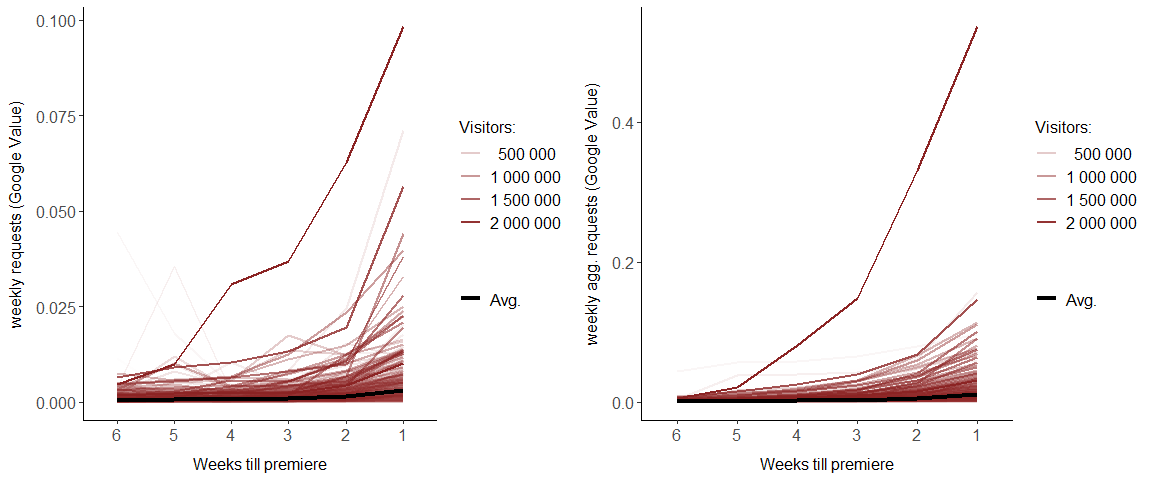
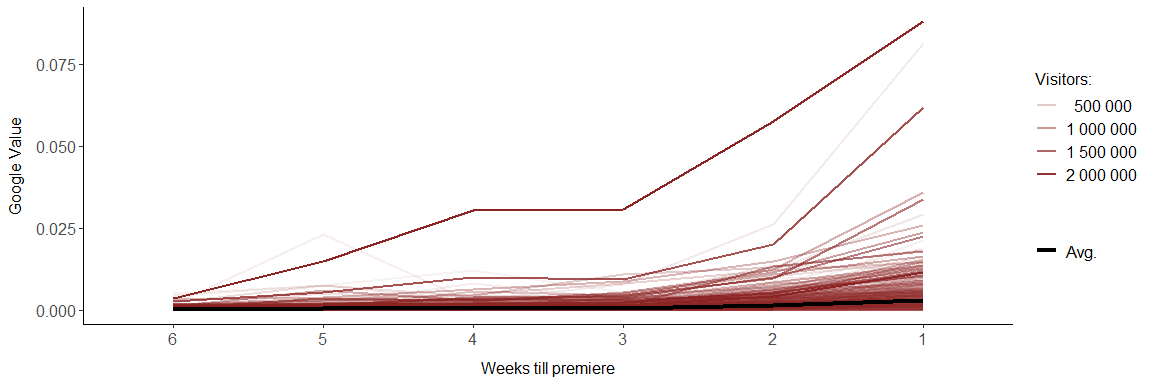
refactored request analysis

diff --git a/data_analysis/requests_analysis.md b/data_analysis/requests_analysis.md
@@ -5,8 +5,7 @@ Requests Analyis
 Google requests of the movie title***
 
 ``` r
-load("../data/data_final/data_final.RData")
-
+load("../data/data_final.RData")
 source("../utils/preprocessing_utils.R")
 source("../utils/plotting_utils.R")
 ```
@@ -14,18 +13,18 @@ source("../utils/plotting_utils.R")
 Data extraction:
 
 ``` r
-target = data_final$Besucher_wochenende1
-target_log = data_final$Besucher_wochenende1_log
-google_value = data_final[, paste0("Woche", 6:1)]
-aggregation_google_value = data_final[, paste0("Aggregation", 6:1)]
-google_value_transformed = data_final[, paste0("Woche", 6:1, "_transformiert")]
-aggregation_google_value_transformed = data_final[, paste0("Aggregation", 6:1, "_transformiert")]
-main_title = data_final[, paste0("Woche", 6:1, "_haupttitel")]
-main_title_film = data_final[, paste0("Woche", 6:1, "_haupttitel_film")]
-aggregation_main_title_film = data_final[, paste0("Aggregation", 6:1, "_haupttitel_film")]
-aggregation_main_title = data_final[, paste0("Aggregation", 6:1, "_haupttitel")]
-complete_title = data_final[paste0("Woche", 6:1, "_gesamttitel")]
-aggregation_complete_title = data_final[, paste0("Aggregation", 6:1, "_gesamttitel")]
+target = data_final$visitors_premiere_weekend
+target_log = data_final$visitors_premiere_weekend_log
+google_value = data_final[, paste0("week", 6:1)]
+aggregation_google_value = data_final[, paste0("aggregation", 6:1)]
+google_value_transformed = data_final[, paste0("week", 6:1, "_transformiert")]
+aggregation_google_value_transformed = data_final[, paste0("aggregation", 6:1, "_transformiert")]
+main_title = data_final[, paste0("week", 6:1, "_main_title")]
+main_title_film = data_final[, paste0("week", 6:1, "_main_title_film")]
+aggregation_main_title_film = data_final[, paste0("aggregation", 6:1, "_main_title_film")]
+aggregation_main_title = data_final[, paste0("aggregation", 6:1, "_main_title")]
+complete_title = data_final[, paste0("week", 6:1, "_complete_title")]
+aggregation_complete_title = data_final[, paste0("aggregation", 6:1, "_complete_title")]
 ```
 
 Let’s take a look at the devolpment of the calculated Google Value from
@@ -36,33 +35,25 @@ the start of the time series (6 weeks prior to premiere) until its end
 requests = t(google_value)
 colnames(requests) = data_final$Filmtitel
 alpha_var = rep(x = target, each = 6)
-p1 = plot_requests(requests, y = "weekly requests (Google Value)", alpha = alpha_var, names = c("Date", "Movie", "Req"))
-requests = t(aggregation_google_value)
-colnames(requests) = data_final$Filmtitel
-p2 = plot_requests(requests, y = "weekly agg. requests (Google Value)", alpha = alpha_var, 
-                   names = c("Date", "Movie", "Req"))
-grid.arrange(p1, p2, ncol=2)
+plot_requests(requests, y = "Google Value", alpha = alpha_var, names = c("Date", "Movie", "Req"))
 ```
 
 ![](requests_analysis_files/figure-gfm/unnamed-chunk-3-1.png)<!-- -->
 
 The weekly values of the Google Value tend to increase until the
-premiere. This of course results in a clear picture of the aggregation
-of the values. Also it seems like the increase correlates with the
-number of visitors, whereas terms of more popular movies tend to
-increase steeper than unpopular ones.
+premiere. The darker the color of a line, the more people eventually
+watched the movie. The black line depics the average of the Google
+Values of all movies. It can be easily seen that the calculated Google
+Values increases towards premiere. The highest increase is 2 weeks
+before premiere. The line dominating each other ith a gogle Vale far abe
+0.025 is *Star Wars* which has a steadily high request rate due to its
+ambiguity.
 
 ``` r
 requests = t(complete_title)
-colnames(requests) = data_final$Filmtitel
+colnames(requests) = complete_title$title
 alpha_var = rep(x = target, each = 6)
-p1 = plot_requests(requests, y = "weekly requests (Complete title)", alpha = alpha_var, 
-                   names = c("Date", "Movie", "Req"))
-requests = t(aggregation_complete_title)
-colnames(requests) = data_final$Filmtitel
-p2 = plot_requests(requests, y = "weekly agg. requests (Complete title)", alpha = alpha_var, 
-                   names = c("Date", "Movie", "Req"))
-grid.arrange(p1, p2, ncol=2)
+plot_requests(requests, y = "weekly requests (Complete title)", alpha = alpha_var, names = c("Date", "Movie", "Req"))
 ```
 
 ![](requests_analysis_files/figure-gfm/unnamed-chunk-4-1.png)<!-- -->
@@ -72,45 +63,35 @@ complete title of the movies. Whereby, some complete titles tend to
 stagnate about 4 weeks before their premiere. One assumption - which
 will be later confirmed by the models - is, that as soon as a search
 termn gathers momentum at Google Search it is not necessary anymore to
-search for the full title but for just the main title. The time of
+search for the full title but just for the main title. The time of
 momentum gatherin seems to be around 4 to 3 weeks of a movies premiere.
 
 ``` r
 requests = t(main_title)
 colnames(requests) = data_final$Filmtitel
 alpha_var = rep(x = target, each = 6)
-p1 = plot_requests(requests, y = "weekly requests (Main title)", alpha = alpha_var, 
-                   names = c("Date", "Movie", "Req"))
-requests = t(aggregation_main_title)
-colnames(requests) = data_final$Filmtitel
-p2 = plot_requests(requests, y = "weekly agg. requests (Main title)", alpha = alpha_var, 
-                   names = c("Date", "Movie", "Req"))
-grid.arrange(p1, p2, ncol=2)
+plot_requests(requests, y = "weekly requests (Main title)", alpha = alpha_var,names = c("Date", "Movie", "Req"))
 ```
 
 ![](requests_analysis_files/figure-gfm/unnamed-chunk-5-1.png)<!-- -->
 
 Taking a look at the main title shows a very similar image to the
-overall Google Value. If one takes a look at the numbers of the search
-time main title with the sufffix “film” she will notice, that
-blockbusters to not have high numbers for requests with this suffix.
-This might be due to the fact, that it’s simply not necessary to add
-this suffix to search requests on very populat movies. It is simply not
-necessary to add “film” to a search request “Mission Impossible”,
-whereas if the movie has become a brand like Star Wars or Lord of the
-Rings it might become necessary again.
+overall Google Value.
+
+If one takes a look at the numbers of the search term main title with
+the suffix “film” she will notice, that blockbusters to not have high
+numbers for requests with this suffix. This might be due to the fact,
+that it’s simply not necessary to add this suffix to search requests on
+very populat movies. It is simply not necessary to add “film” to a
+search request “Mission Impossible”, whereas if the movie has become a
+brand like Star Wars or Lord of the Rings it might become necessary
+again.
 
 ``` r
 requests = t(main_title)
 colnames(requests) = data_final$Filmtitel
 alpha_var = rep(x = target, each = 6)
-p1 = plot_requests(requests, y = "weekly requests (Main title + film)", alpha = alpha_var, 
-                   names = c("Date", "Movie", "Req"))
-requests = t(aggregation_main_title_film)
-colnames(requests) = data_final$Filmtitel
-p2 = plot_requests(requests, y = "weekly agg. requests (Main title + film)", alpha = alpha_var, 
-                   names = c("Date", "Movie", "Req"))
-grid.arrange(p1, p2, ncol=2)
+plot_requests(requests, y = "weekly requests (Main title + film)", alpha = alpha_var, names = c("Date", "Movie", "Req"))
 ```
 
 ![](requests_analysis_files/figure-gfm/unnamed-chunk-6-1.png)<!-- -->
@@ -164,13 +145,13 @@ grid.arrange(p1, p2, ncol=2)
 ![](requests_analysis_files/figure-gfm/unnamed-chunk-8-1.png)<!-- -->
 
 There does not seem to be any obvious difference between the KPIs and
-their cummulative aggregation, except for the search term “main title +
-film” whose correlation increases during the timewindow. Nevertheless,
-the Google Value, the complete title and the main title show a high
-correlation between compared to the number of visitors. Also notice: 6
-and 5 weeks before premiere the correlation between the complete title
-and the number of visitors is greater than the correlation between the
-main title and the number of visitors, which kind of confirms the
-assumption made above, that up to 4 week prior to premier it is
-neceassary to google for the complete title and not just the main title
-if one wants to find sufficient results.
+their cummulative aggregation, except for the aggregated volume of the
+search term “main title + film” whose correlation stagnates at about 3
+weeks before premiere. Nevertheless, the Google Value, the complete
+title and the main title show a high correlation between compared to the
+number of visitors. Also notice: 6 and 5 weeks before premiere the
+correlation between the complete title and the number of visitors is
+greater than the correlation between the main title and the number of
+visitors, which kind of confirms the assumption made above, that up to 4
+week prior to premier it is neceassary to google for the complete title
+and not just the main title if one wants to find sufficient results.
